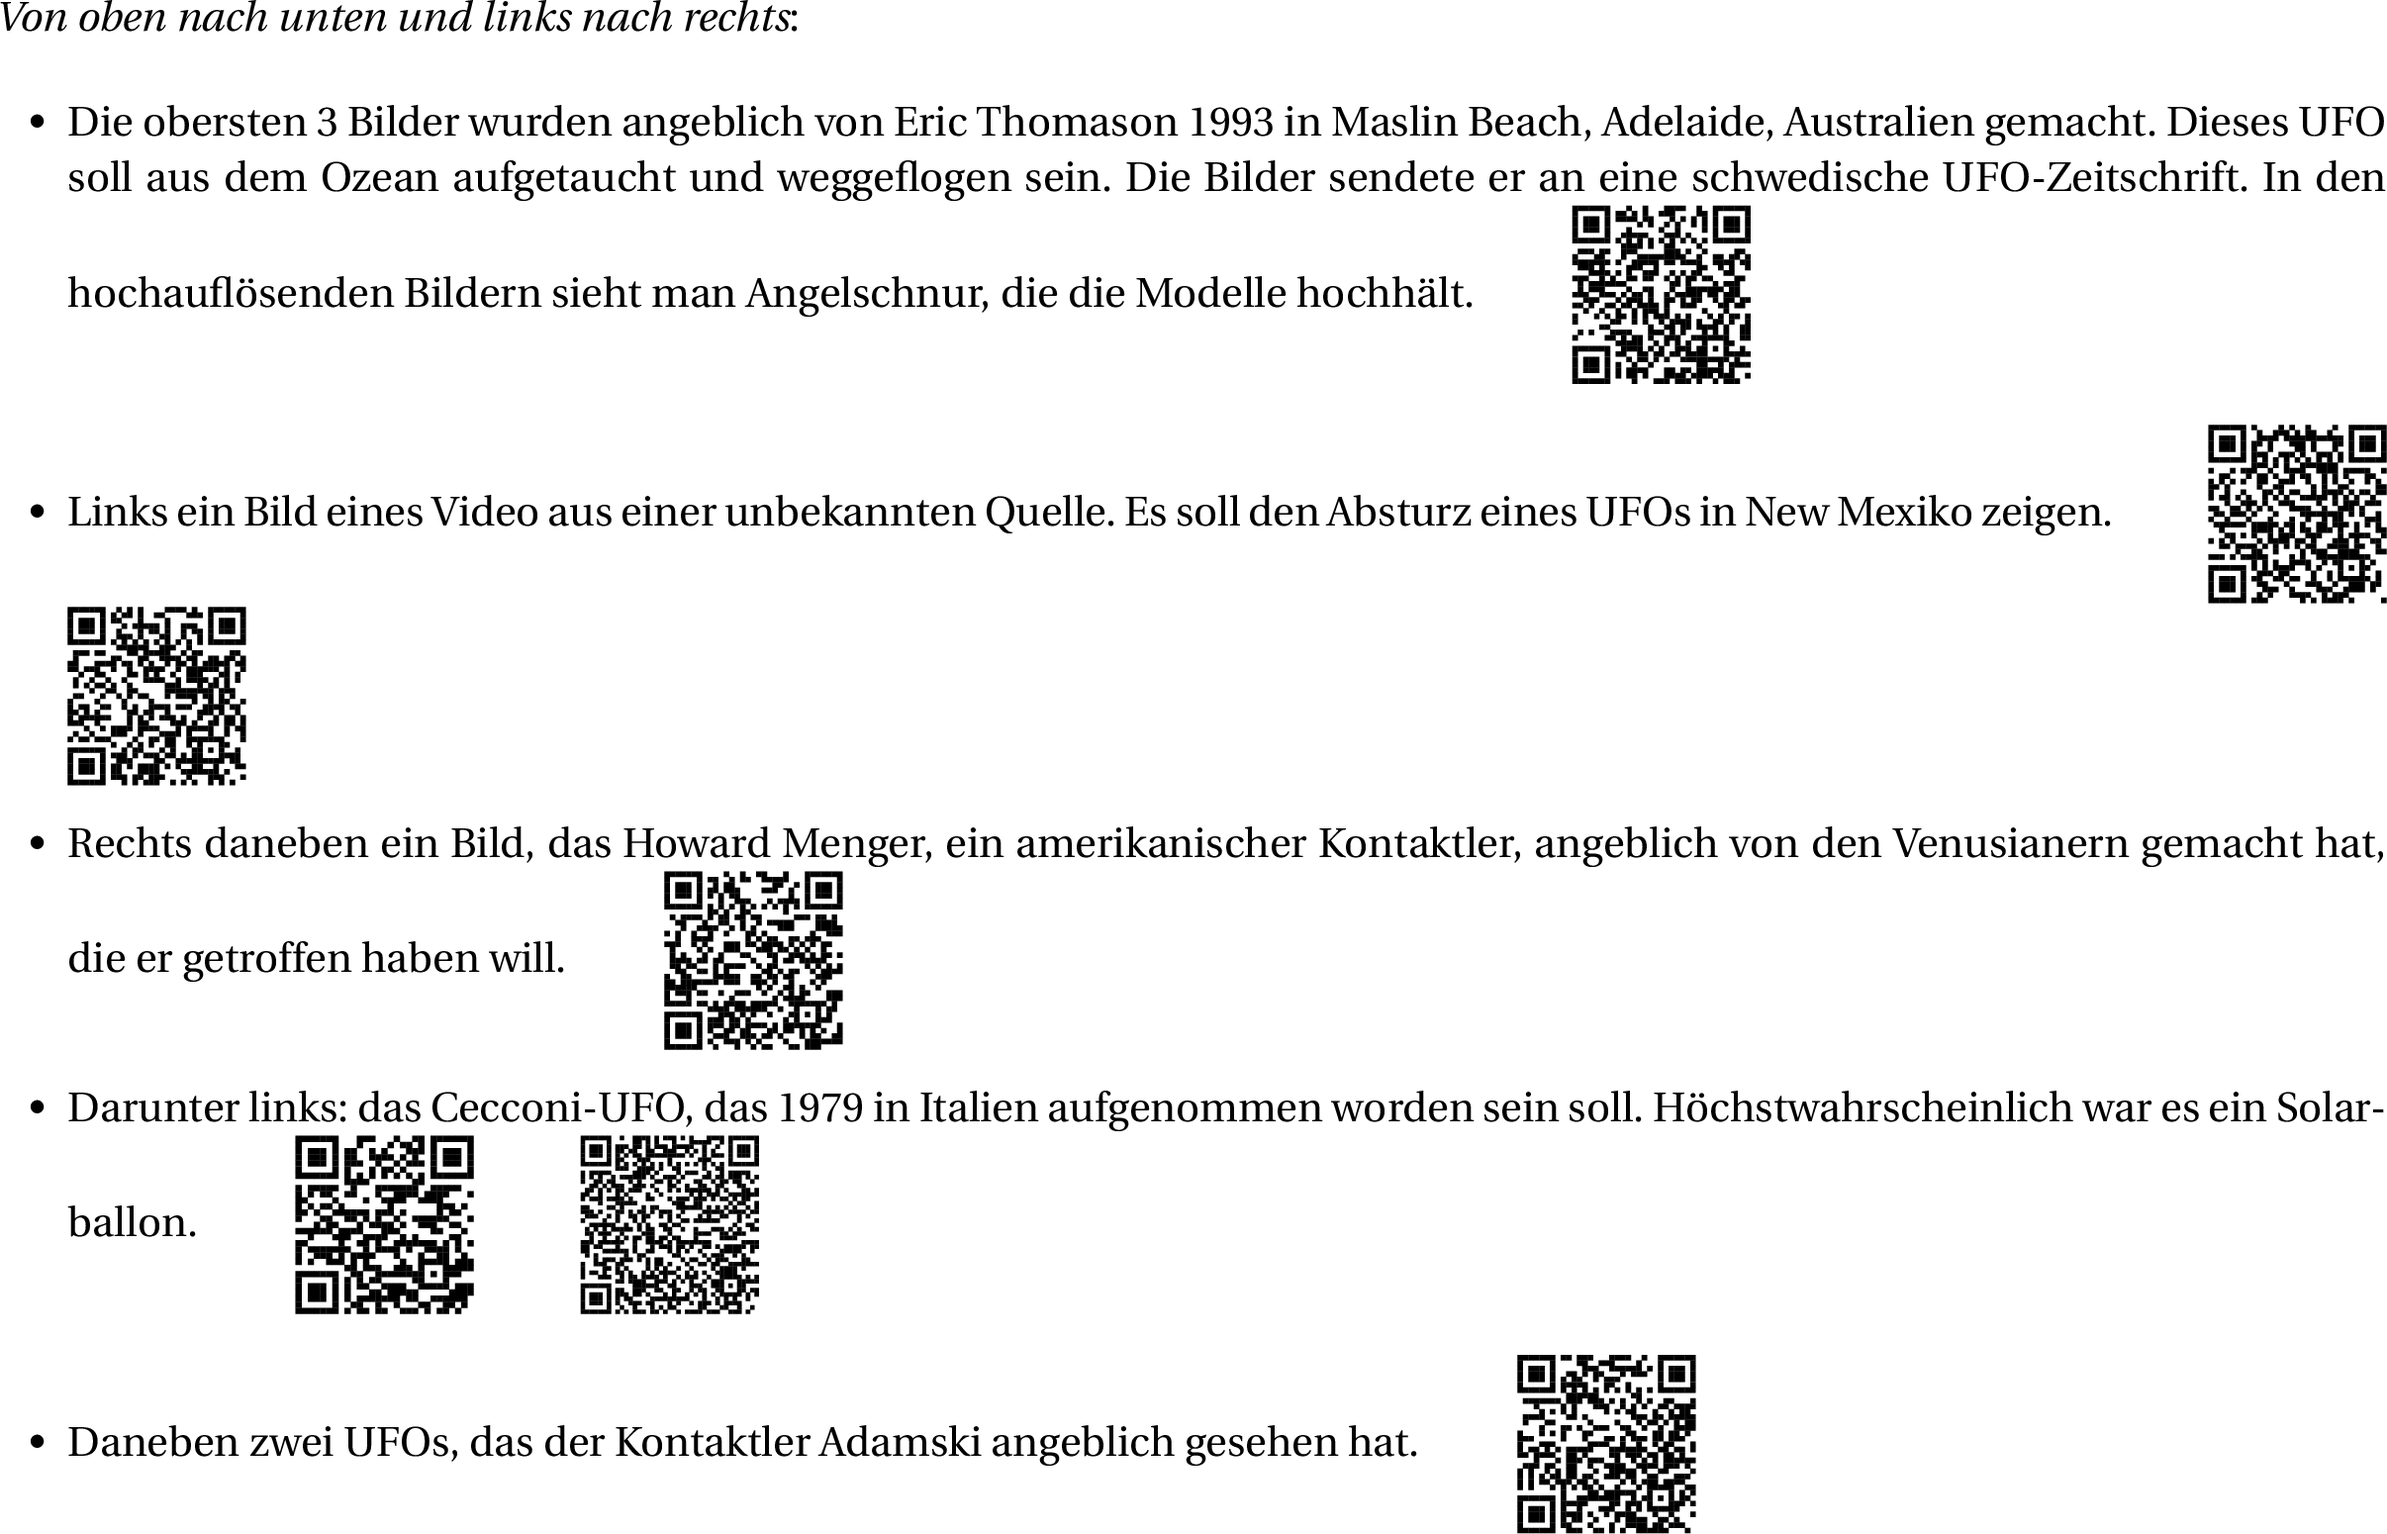
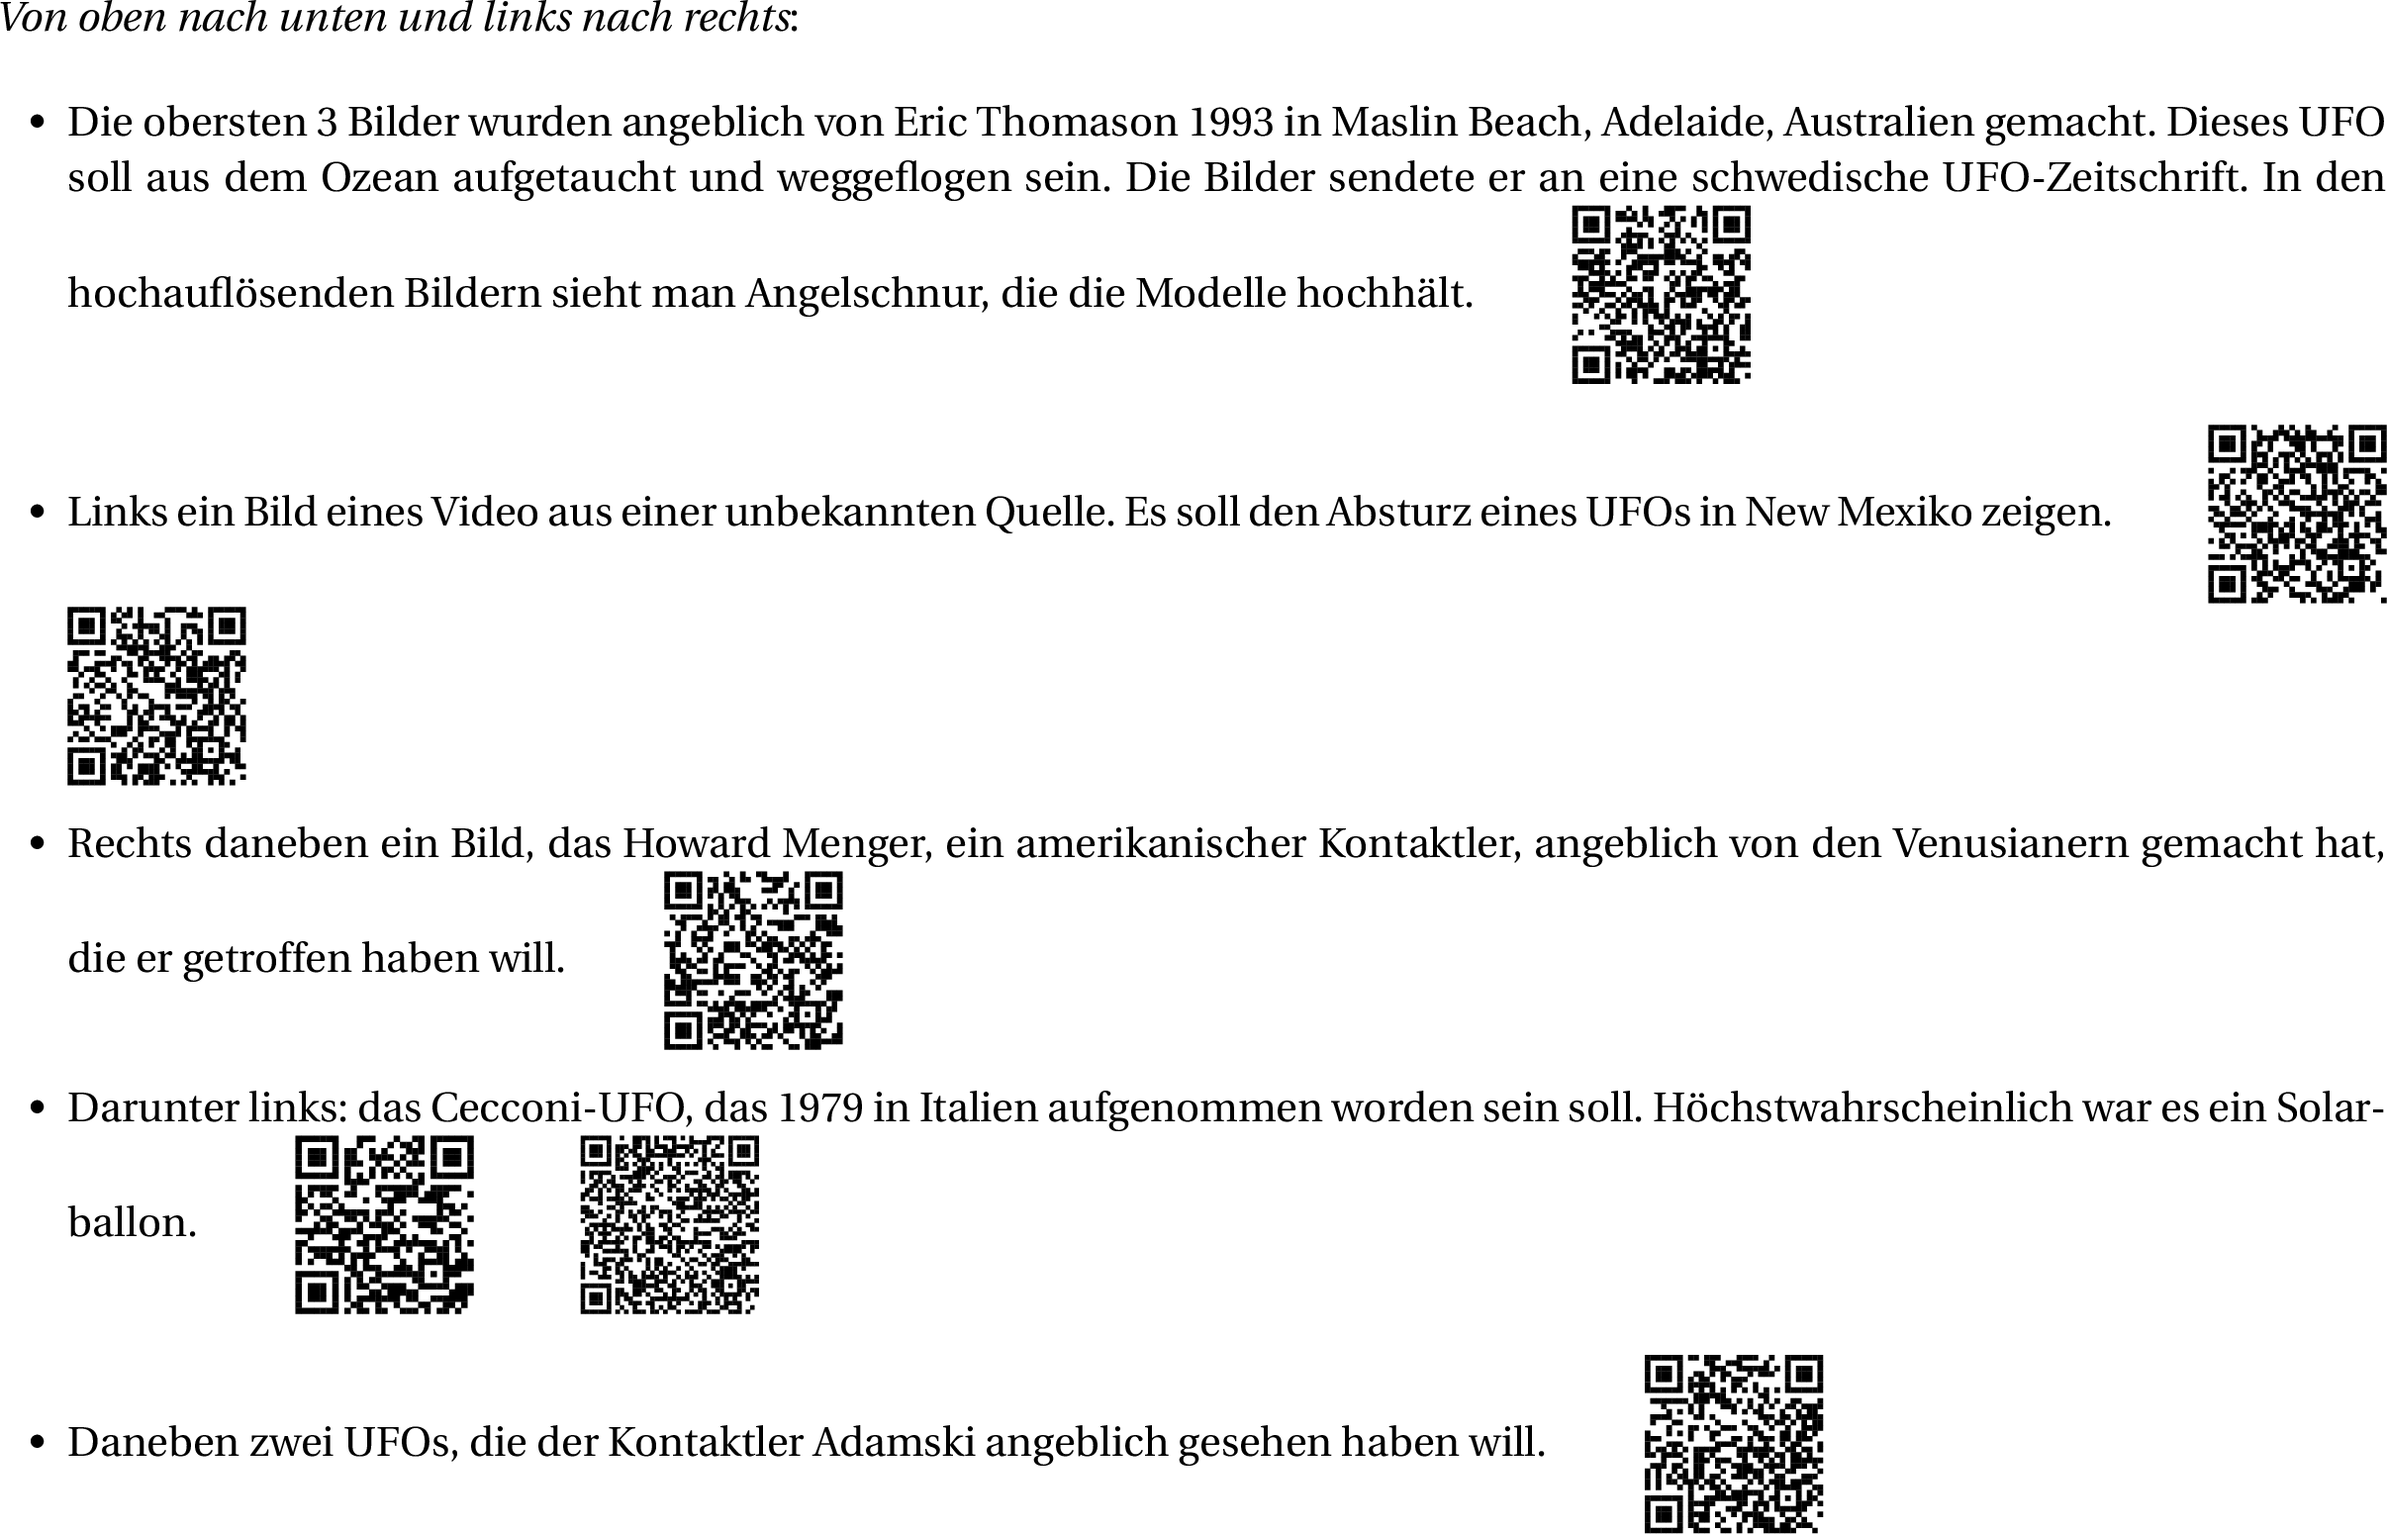
fix

Changed region(s): [[0.2177, 0.8671, 0.7774, 1.0]]

diff --git a/poster/06/06.tex b/poster/06/06.tex
@@ -16,7 +16,7 @@
 	\item Links ein Bild eines Video aus einer unbekannten Quelle. Es soll den Absturz eines UFOs in New Mexiko zeigen. \qr{https://www.ufocasebook.com/1997crashvideo.html} \qr{https://www.youtube.com/watch?v=cYsKUJtdtlg}
 	\item Rechts daneben ein Bild, das Howard Menger, ein amerikanischer Kontaktler, angeblich von den Venusianern gemacht hat, die er getroffen haben will. \qr{https://en.wikipedia.org/wiki/Howard_Menger}
 	\item Darunter links: das Cecconi-UFO, das 1979 in Italien aufgenommen worden sein soll. Höchstwahrscheinlich war es ein Solarballon. \qr{https://de.wikipedia.org/wiki/Solarballon} \qr{https://www.theblackvault.com/casefiles/the-ufo-case-of-maresciallo-cecconi-june-18-1979/}
-	\item Daneben zwei UFOs, das der Kontaktler Adamski angeblich gesehen hat. \qr{https://en.wikipedia.org/wiki/George_Adamski}
+	\item Daneben zwei UFOs, die der Kontaktler Adamski angeblich gesehen haben will. \qr{https://en.wikipedia.org/wiki/George_Adamski}
 \end{itemize}
 
 \end{document}
